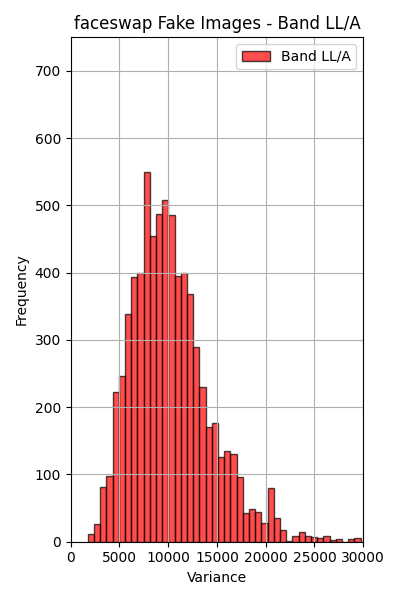
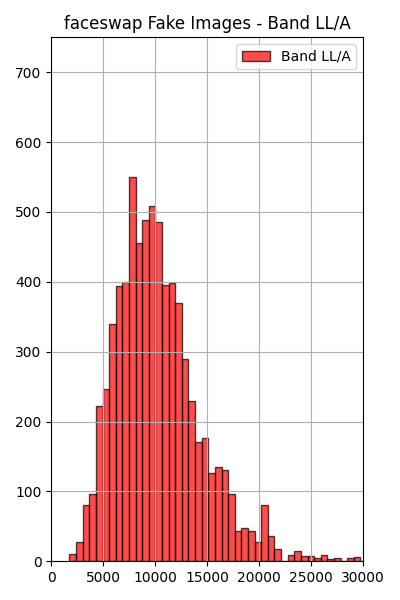
fixed plots

diff --git a/variance_plot.py b/variance_plot.py
@@ -198,8 +198,8 @@ def main():
                 label=f"Band {subbands[band_idx]}",
             )
             plt.title(f"{folder_name} Fake Images - Band {subbands[band_idx]}")
-            plt.xlabel("Variance")
-            plt.ylabel("Frequency")
+            # plt.xlabel("Variance")
+            # plt.ylabel("Frequency")
             plt.legend()
             plt.grid(True)
             plt.xlim(x_limits[band_idx])
